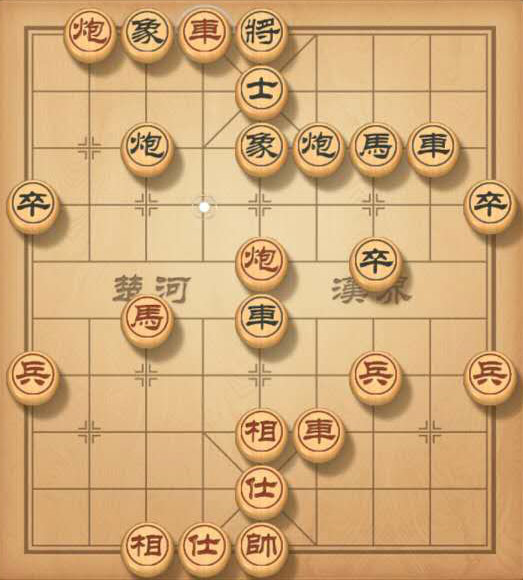
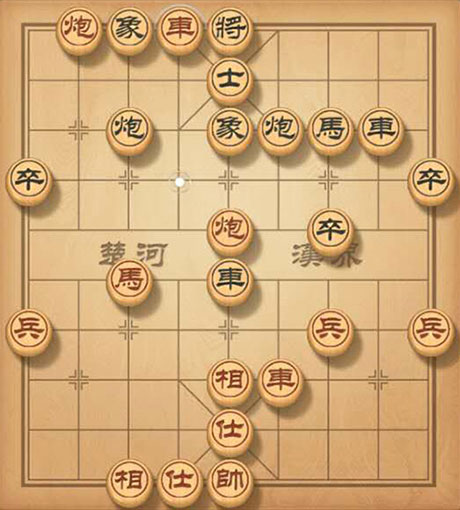
思維

diff --git a/index.html b/index.html
@@ -161,24 +161,36 @@
   <div class="mycode">
     <div class="container">
       <div class="row">
-        <div class="col-md-5">
+        <div class="col-md-4">
           <h3>我注重细节，拥有优雅的编程风格 ...</h3>
-          <p>代码就是财富。代码是写给人看的，为方便其他程序员阅读、维护，我在开发过程中，除了编写注释之外，通常牢记的两点：</p>
+          <p>代码就是财富。代码是写给人看的，为方便其他程序员阅读、维护，我在开发过程中，除了编写注释之外，通常牢记简单的两点：</p>
           <ul>
             <li>缩进 -- 两个空格</li>
             <li>命名 -- 文件不使用任何符号（i15youhua.js），class使用减号（i-15-you-hua），js变量使用驼峰（i15YouHua）</li>
           </ul>
         </div>
-        <div class="col-md-7">
+        <div class="col-md-8">
           <img src="img/mycode.jpg" alt="">
         </div>
       </div>
     </div>
   </div>
 </section>
-<!--  -->
+<!-- 思维thought -->
 <section>
-
+  <div class="thought">
+    <div class="container">
+      <div class="row">
+        <div class="col-md-8">
+          <img src="img/siwei.jpg" alt="">
+        </div>
+        <div class="col-md-4">
+          <h3>... 以及敏捷的逻辑思维</h3>
+          <p>自小我就喜欢下象棋，在获得快乐的同时，还让我的思维能力得到锻炼。我数学一向不错，曾经还得过不少竞赛奖，不知是否与我对象棋的爱好有关呢？总之，我在 <a href="http://xiangqi.qq.com/">天天象棋</a> 等你。</p>
+        </div>
+      </div>
+    </div>
+  </div>
 </section>
 <!-- 工作 -->
 <section>
@@ -272,16 +284,11 @@
       <img src="img/head/head2.png" alt="">
       <img src="img/head/head3.png" alt="">
     </div>
-    <!-- <h2>fangxuecong.com is<br /> <span>COMING SOON</span>.</h2>
-    <ul>
-      <li>
-        <a href="tetris-game">俄罗斯方块--最经典小游戏之一</a>
-      </li>
-    </ul> -->
+    <!-- footer页脚：版权，qq，email -->
     <footer>
       <p>&copy; Copyright 2017 fangxuecong 聪意制作室</p>
-      <p>qq:02492407460</p>
-      <p>email:<a href="mailto:15915940450@139.com">15915940450@139.com</a></p>
+      <p>qq: 02492407460</p>
+      <p>email: <a href="mailto:15915940450@139.com">15915940450@139.com</a></p>
     </footer>
   </div>
 </section>

diff --git a/css/styles.css b/css/styles.css
@@ -92,6 +92,7 @@
 }
 #wechat_code{
   width: 100px;
+  max-width: 100px;
   margin-left: -10px;
   margin-top: -10px;
   -webkit-transform: scale(0);
@@ -266,7 +267,7 @@ a:hover#logo i,a.anim#logo i{
 }
 /*工作*/
 .work{
-  background: #F2F2F2;
+  background: #F0EFEB;
   padding-top: 30px;
   padding-bottom: 30px;
 }
@@ -383,6 +384,9 @@ footer p{
   height: 30px;
   line-height: 30px;
 }
+footer a{
+  color: #696969;
+}
 
 /*技能*/
 .tech{
@@ -469,36 +473,53 @@ footer p{
 }
 
 /*mycode代碼*/
-.mycode{
+.mycode,.thought{
   background: #3a3a42;
   color: #FFF;
 }
-.mycode h3{
+.mycode h3,.thought h3{
   font-size: 36px;
   font-weight: 500;
   padding-top: 100px;
-  margin-left: 50px;
+  /*margin-left: 50px;*/
 }
-.mycode p{
-  margin-left: 50px;
+.mycode p,.thought p{
+  /*margin-left: 50px;*/
   margin-top: 30px;
-  font-size: 18px;
+  font-size: 16px;
   color: #B1B1B1;
 }
 .mycode ul{
-  margin-left: 50px;
-  margin-top: 20px;
+  margin-left: 20px;
+  margin-top: 10px;
 }
 .mycode li{
   color: #B1B1B1;
   font-size: 16px;
   list-style: circle;
+  line-height: 1.6em;
 }
-.mycode img{
+.mycode img,.thought img{
   margin-top: 40px;
   margin-bottom: 60px;
+  display: block;
+  float: right;
 }
-
+/*thought思维*/
+.thought{
+  background: #ff6b43;
+}
+.thought p{
+  color: #fff6f4;
+  margin-bottom: 30px;
+}
+.thought p a{
+  color: #EFD8AF;
+  border-bottom: 1px solid #EFD8AF;
+}
+.thought img{
+  float: left;
+}
 
 /*手机不显示详细内容*/
 @media (max-width:992px) {
@@ -511,12 +532,5 @@ footer p{
   }
   .nav{
     display: none;
-  }
-
-  .mycode h3,.mycode p{
-    margin-left: 0;
-  }
-  .mycode ul{
-    margin-left: 20px;
   }
 }
